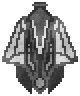
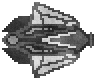
fixed rotation calculations so that everything correctly aligns with 0 = the vector <1, 0>

diff --git a/kivent_tutorials/4_adding_physics_callbacks/main.py b/kivent_tutorials/4_adding_physics_callbacks/main.py
@@ -17,13 +17,25 @@ class BoundarySystem(GameSystem):
         ent2_id = arbiter.shapes[1].body.data
         return False
 
-    def separate_from_boundary(self, space, arbiter):
+    def catch_boundary_callback(self, space, arbiter):
         gameworld = self.gameworld
-        t = 0
         entities = gameworld.entities
         ent1_id = arbiter.shapes[0].body.data
         ent2_id = arbiter.shapes[1].body.data
-        print arbiter.shapes[1].body.position
+        map_pos = gameworld.pos
+        map_size = gameworld.currentmap.map_size
+        asteroid = entities[ent1_id]
+        body = asteroid.physics.body
+        Clock.schedule_once(partial(self.handle_replacing_asteroid,
+            body, space, 
+            (map_pos[0]+map_size[0]*.5, map_pos[1]+map_size[1]*.5)))
+
+    def separate_from_boundary(self, space, arbiter):
+        ###This algorithm is in the works!
+        gameworld = self.gameworld
+        entities = gameworld.entities
+        ent1_id = arbiter.shapes[0].body.data
+        ent2_id = arbiter.shapes[1].body.data
         map_pos = gameworld.pos
         map_size = gameworld.currentmap.map_size
         asteroid = entities[ent1_id]
@@ -31,27 +43,55 @@ class BoundarySystem(GameSystem):
         x, y = pos_system.x, pos_system.y
         body = asteroid.physics.body
         new_x, new_y = x, y
-        if x - t < map_pos[0]:
+        if x <= map_pos[0]:
             new_x = map_size[0] + map_pos[0] + 32
-        elif x + t >= map_pos[0] + map_size[0]:
+        elif x >= map_pos[0] + map_size[0]:
             new_x = map_pos[0] - 32
-        if y - t < map_pos[1]:
+        if y <= map_pos[1]:
             new_y = map_size[1] + map_pos[1] + 32
-        elif y + t >= map_size[1] + map_pos[1]:
+        elif y >= map_size[1] + map_pos[1]:
             new_y = map_pos[1] - 32
-        body.position = (new_x, new_y)
-        print map_pos, map_size
-        print ent1_id, (x, y), body.position
+        Clock.schedule_once(partial(self.handle_replacing_asteroid, 
+            body, space, (new_x, new_y)))
         return False
+
+    def handle_replacing_asteroid(self, body, space, position, dt):
+        space.remove(body)
+        body.position = position
+        space.add(body)
 
     def generate_boundaries(self):
         gameworld = self.gameworld
         map_pos = gameworld.pos
         map_size = gameworld.currentmap.map_size
         center_of_map = (map_pos[0] + .5*map_size[0], map_pos[1] + .5*map_size[1])
-        expanded_size = map_size[0]*1.1, map_size[1]*1.1
+        expanded_size = map_size[0]*1.5, map_size[1]*1.5
         self.generate_boundary(map_size, center_of_map)
-        #self.generate_boundary(expanded_size, center_of_map)
+        self.generate_catch_boundary(expanded_size, center_of_map)
+
+    def generate_catch_boundary(self, boundary_size, boundary_pos):
+        gameworld = self.gameworld
+        shape_dict = {'width': boundary_size[0], 
+            'height': boundary_size[1], 'mass': 0}
+        col_shape_dict = {'shape_type': 'box', 
+            'elasticity': 0.0, 'collision_type': 3, 
+            'shape_info': shape_dict, 'friction': 0.0}
+        physics_component_dict = {'main_shape': 'box', 'velocity': (0, 0), 
+            'position': boundary_pos, 'angle':0, 'angular_velocity': 0,
+            'mass': 0, 'vel_limit': 0, 'ang_vel_limit': 0, 
+            'col_shapes': [col_shape_dict]}
+        boundary_system = {}
+        create_component_dict = {
+            'position': boundary_pos,
+            'rotate': 0.,
+            'color': (0.0, 0.0, 1.0, .75),
+            'physics': physics_component_dict, 
+            'boundary': boundary_system,
+            'debug_renderer': {'size': boundary_size}}
+        component_order = ['position', 'rotate',  'color',
+            'physics', 'boundary', 'debug_renderer']
+        self.gameworld.init_entity(create_component_dict, component_order)
+
 
     def generate_boundary(self, boundary_size, boundary_pos):
         gameworld = self.gameworld
@@ -111,10 +151,16 @@ class TestGame(Widget):
             separate_func=boundary_system.separate_from_boundary)
         physics_system.add_collision_handler(2, 2,
             begin_func=boundary_system.begin_collide_with_boundary)
+        physics_system.add_collision_handler(
+            1, 3, 
+            begin_func=boundary_system.begin_collide_with_boundary,
+            separate_func=boundary_system.catch_boundary_callback)
+        physics_system.add_collision_handler(2, 3,
+            begin_func=boundary_system.begin_collide_with_boundary)
 
     def draw_some_stuff(self):
         size = self.gameworld.currentmap.map_size
-        for x in range(1):
+        for x in range(20):
             pos = (randint(0, size[0]), randint(0, size[1]))
             self.create_asteroid(pos)
 

diff --git a/sample_application/player_character.py b/sample_application/player_character.py
@@ -336,7 +336,7 @@ class ShipSystem(GameSystem):
             'explosion_effect': 'assets/pexfiles/ship_explosion1.pex',
             'hard_points': [(46, 59), (-46, 59)], 
             'total_rocket_ammo': 40, 'total_bullet_ammo': 200,
-            'texture_size': (128, 104)}
+            'texture_size': (104, 128)}
         ship_dicts['ship_2'] = {
             'name': 'Falcon','health': 150, 'mass': 175,'max_speed': 190, 
             'max_turn_speed': 100, 'accel': 20000,'angular_accel': 75, 
@@ -349,7 +349,7 @@ class ShipSystem(GameSystem):
             'explosion_effect': 'assets/pexfiles/ship_explosion1.pex',
             'hard_points': [(38, 30), (-38, 30), (52, 30), (-52, 30)], 
             'total_rocket_ammo': 60, 'total_bullet_ammo': 400,
-            'texture_size': (128, 86)}
+            'texture_size': (86, 128)}
         ship_dicts['ship_3'] = {
             'name': 'Monarch','health': 165, 'mass': 220,'max_speed': 180, 
             'max_turn_speed': 130, 'accel': 25000,
@@ -375,7 +375,7 @@ class ShipSystem(GameSystem):
             'explosion_effect': 'assets/pexfiles/ship_explosion1.pex',
             'hard_points': [(18, 63)], 'total_rocket_ammo': 15, 
             'total_bullet_ammo': 150,
-            'texture_size': (72, 112)}
+            'texture_size': (112, 72)}
         ship_dicts['ship_5'] = {
             'name': 'Cavalier','health': 110, 'mass': 120,'max_speed': 220, 
             'max_turn_speed': 125, 'accel': 22000,'angular_accel': 45, 
@@ -388,7 +388,7 @@ class ShipSystem(GameSystem):
             'explosion_effect': 'assets/pexfiles/ship_explosion1.pex',
             'hard_points': [(0, 47)], 'total_rocket_ammo': 12, 
             'total_bullet_ammo': 200,
-            'texture_size': (80, 96)}
+            'texture_size': (96, 80)}
         ship_dicts['ship_6'] = {
             'name': 'Shield','health': 150, 'mass': 160,'max_speed': 180, 
             'max_turn_speed': 150, 'accel': 25000,
@@ -401,7 +401,7 @@ class ShipSystem(GameSystem):
             'explosion_effect': 'assets/pexfiles/ship_explosion1.pex',
             'hard_points': [(-6, 47), (6, 47)], 'total_rocket_ammo': 30, 
             'total_bullet_ammo': 200,
-            'texture_size': (88, 96)}
+            'texture_size': (96, 88)}
         
     def get_ship_values(self, ship_name):
         if ship_name in self.ship_dicts:
